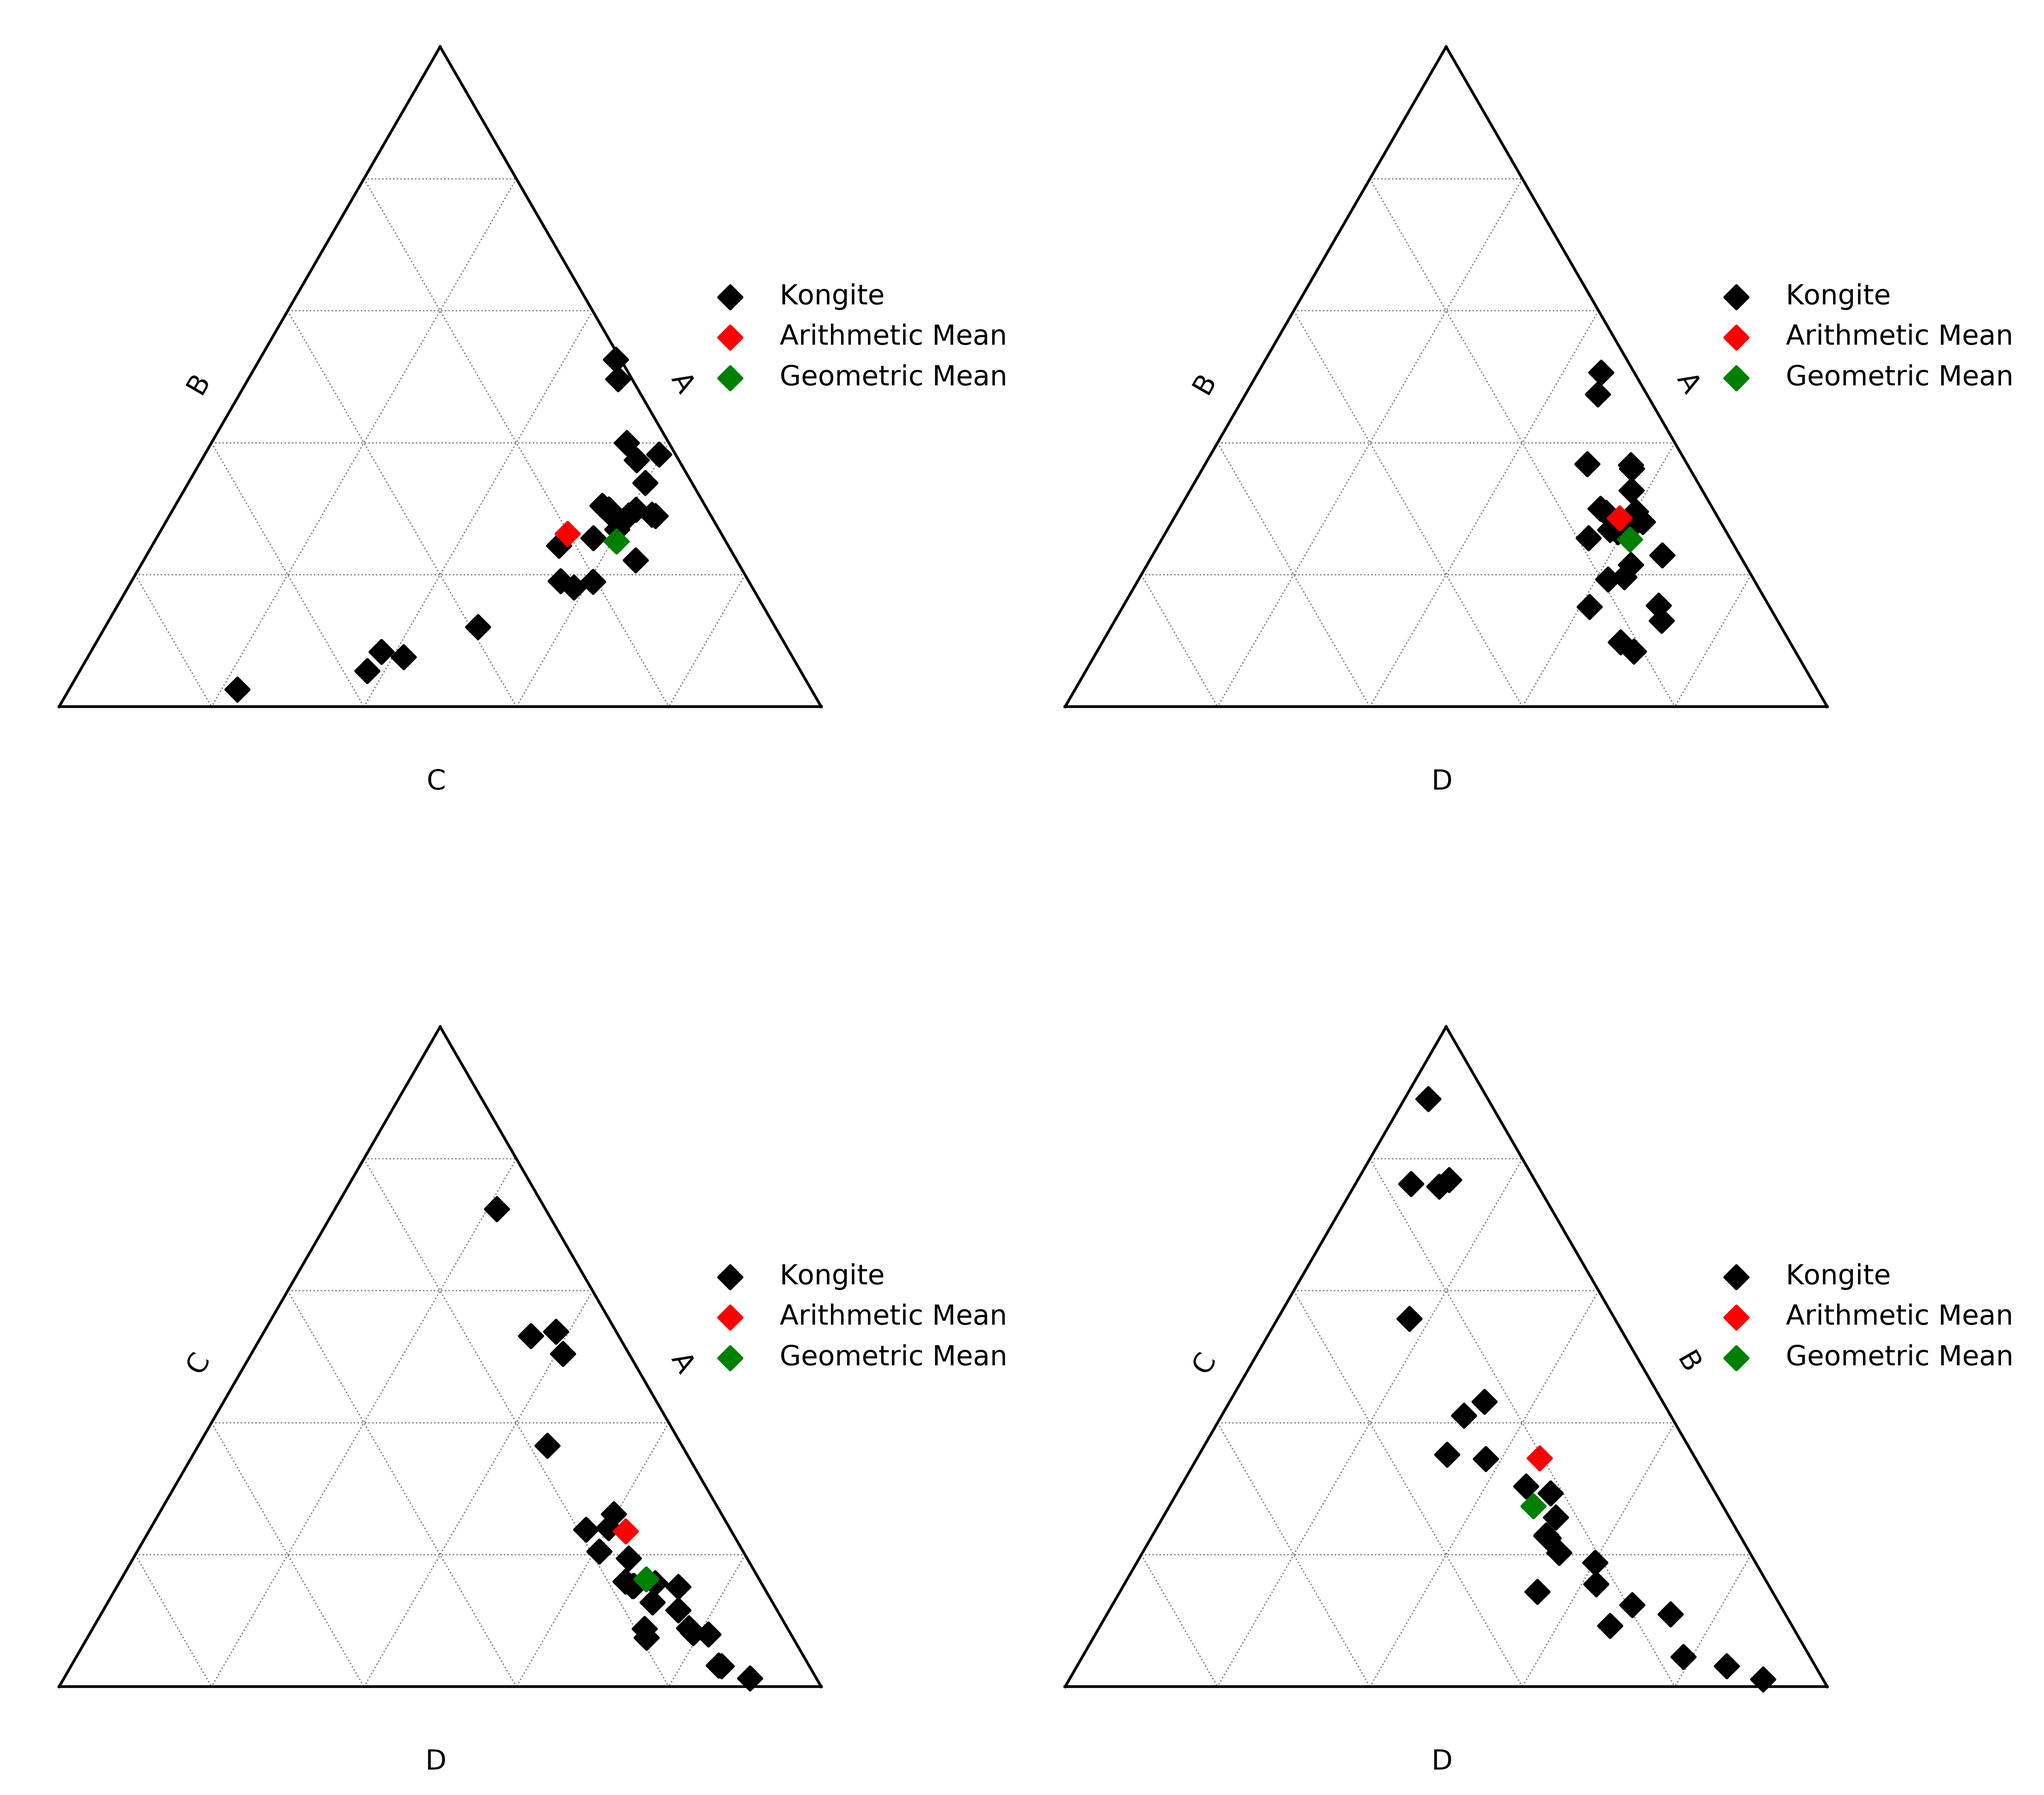
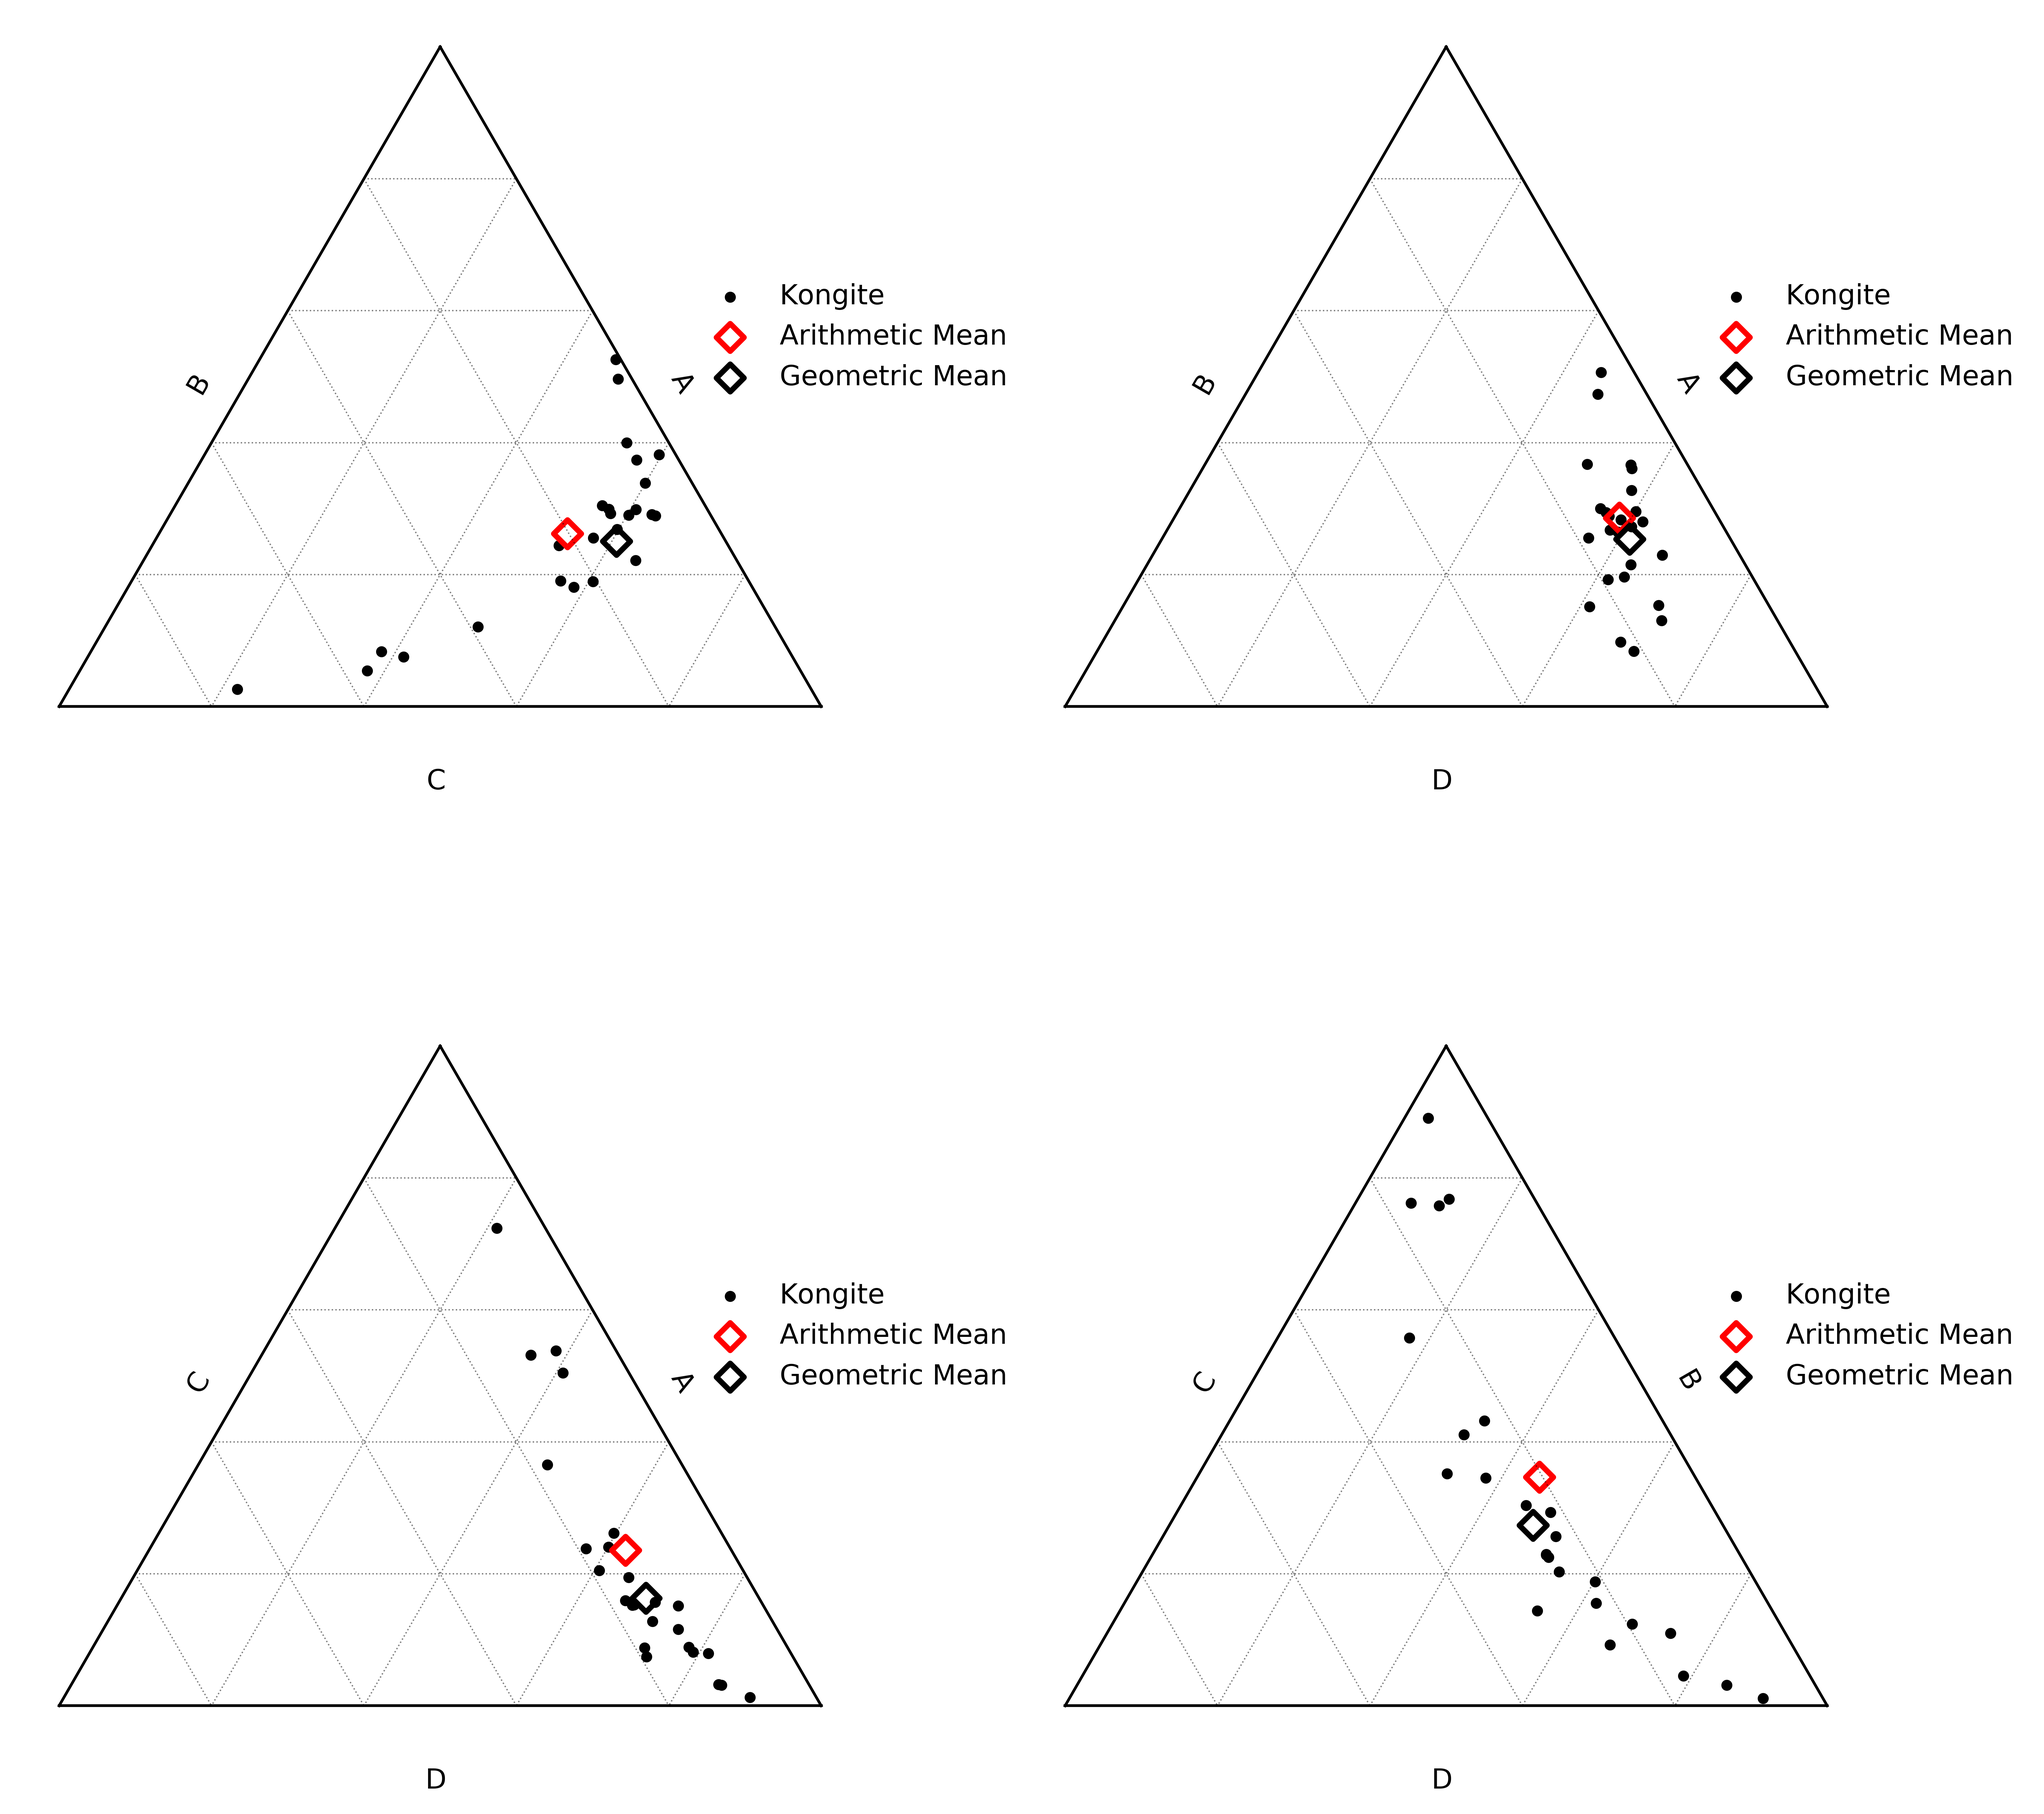
Update Docs

diff --git a/docs/examples/comp/compositional_data.py b/docs/examples/comp/compositional_data.py
@@ -1,10 +1,12 @@
 import numpy as np
 import pandas as pd
 import matplotlib.pyplot as plt
+
 # %% Data
 # pyrolite comes with a few datasets from Aitchison (1984) built in which we can use
 # ax examples:
 from pyrolite.data.Aitchison import load_kongite
+
 df = load_kongite()
 # %% Simple Means and covariance
 # Say you want to know the average ratio between A and B
@@ -30,6 +32,7 @@ np.exp(logA_on_B.mean())  # 2.4213410747400514
 
 # %% Ratios of Poisson Data
 from scipy.stats import norm, poisson, lognorm
+
 means = [[10, 10], [10, 20], [20, 100], [1000, 50]]
 fig, ax = plt.subplots(len(means), 3, figsize=(9, 8))
 ax[-1, 0].set_xlabel("A")
@@ -78,10 +81,12 @@ for ix, (m1, m2) in enumerate(means):
 plt.tight_layout()
 # %% Save Figure
 from pyrolite.util.plot import save_figure
+
 save_figure(fig, save_at="../../source/_static", name="PoissonLognormals")
 # %% Compositional data distributions
 from pyrolite.util.plot import share_axes, subaxes
 from pyrolite.util.distributions import lognorm_to_norm, norm_to_lognorm
+
 # starting from a normal distribution, then creating similar non-normal distributions
 mean, sd = 2.5, 1.5  #
 logmu, logs = norm_to_lognorm(mean, sd)  # parameters for equival
@@ -135,6 +140,7 @@ fig.suptitle("Data Distributions: Normal, Lognormal, Poisson", y=1.1)
 plt.tight_layout()
 # %% Save Figure
 from pyrolite.util.plot import save_figure
+
 save_figure(fig, save_at="../../source/_static", name="CompositionalDistributions")
 # %% Higher Dimensional Visualisation of Mean
 from pyrolite.comp.codata import logratiomean
@@ -146,16 +152,32 @@ ax = ax.flat
 for columns, a in zip(itertools.combinations(["A", "B", "C", "D"], 3), ax):
     columns = list(columns)
 
-    df.loc[:, columns].pyroplot.ternary(ax=a, color="k", label=df.name, no_ticks=True)
+    df.loc[:, columns].pyroplot.ternary(
+        ax=a, color="k", marker=".", label=df.name, no_ticks=True
+    )
 
     df.mean().loc[columns].pyroplot.ternary(
-        ax=a, color="red", label="Arithmetic Mean", no_ticks=True
+        ax=a,
+        edgecolors="red",
+        linewidths=2,
+        c="none",
+        s=50,
+        label="Arithmetic Mean",
+        no_ticks=True,
     )
 
     logratiomean(df.loc[:, columns]).pyroplot.ternary(
-        ax=a, s=30, color="green", label="Geometric Mean", axlabels=True, no_ticks=True
+        ax=a,
+        edgecolors="k",
+        linewidths=2,
+        c="none",
+        s=50,
+        label="Geometric Mean",
+        axlabels=True,
+        no_ticks=True,
     )
     a.legend(frameon=False, facecolor=None, loc=(0.8, 0.5))
 # %% Save Figure --
 from pyrolite.util.plot import save_figure
+
 save_figure(fig, save_at="../../source/_static", name="LogRatioMeansTernary")
